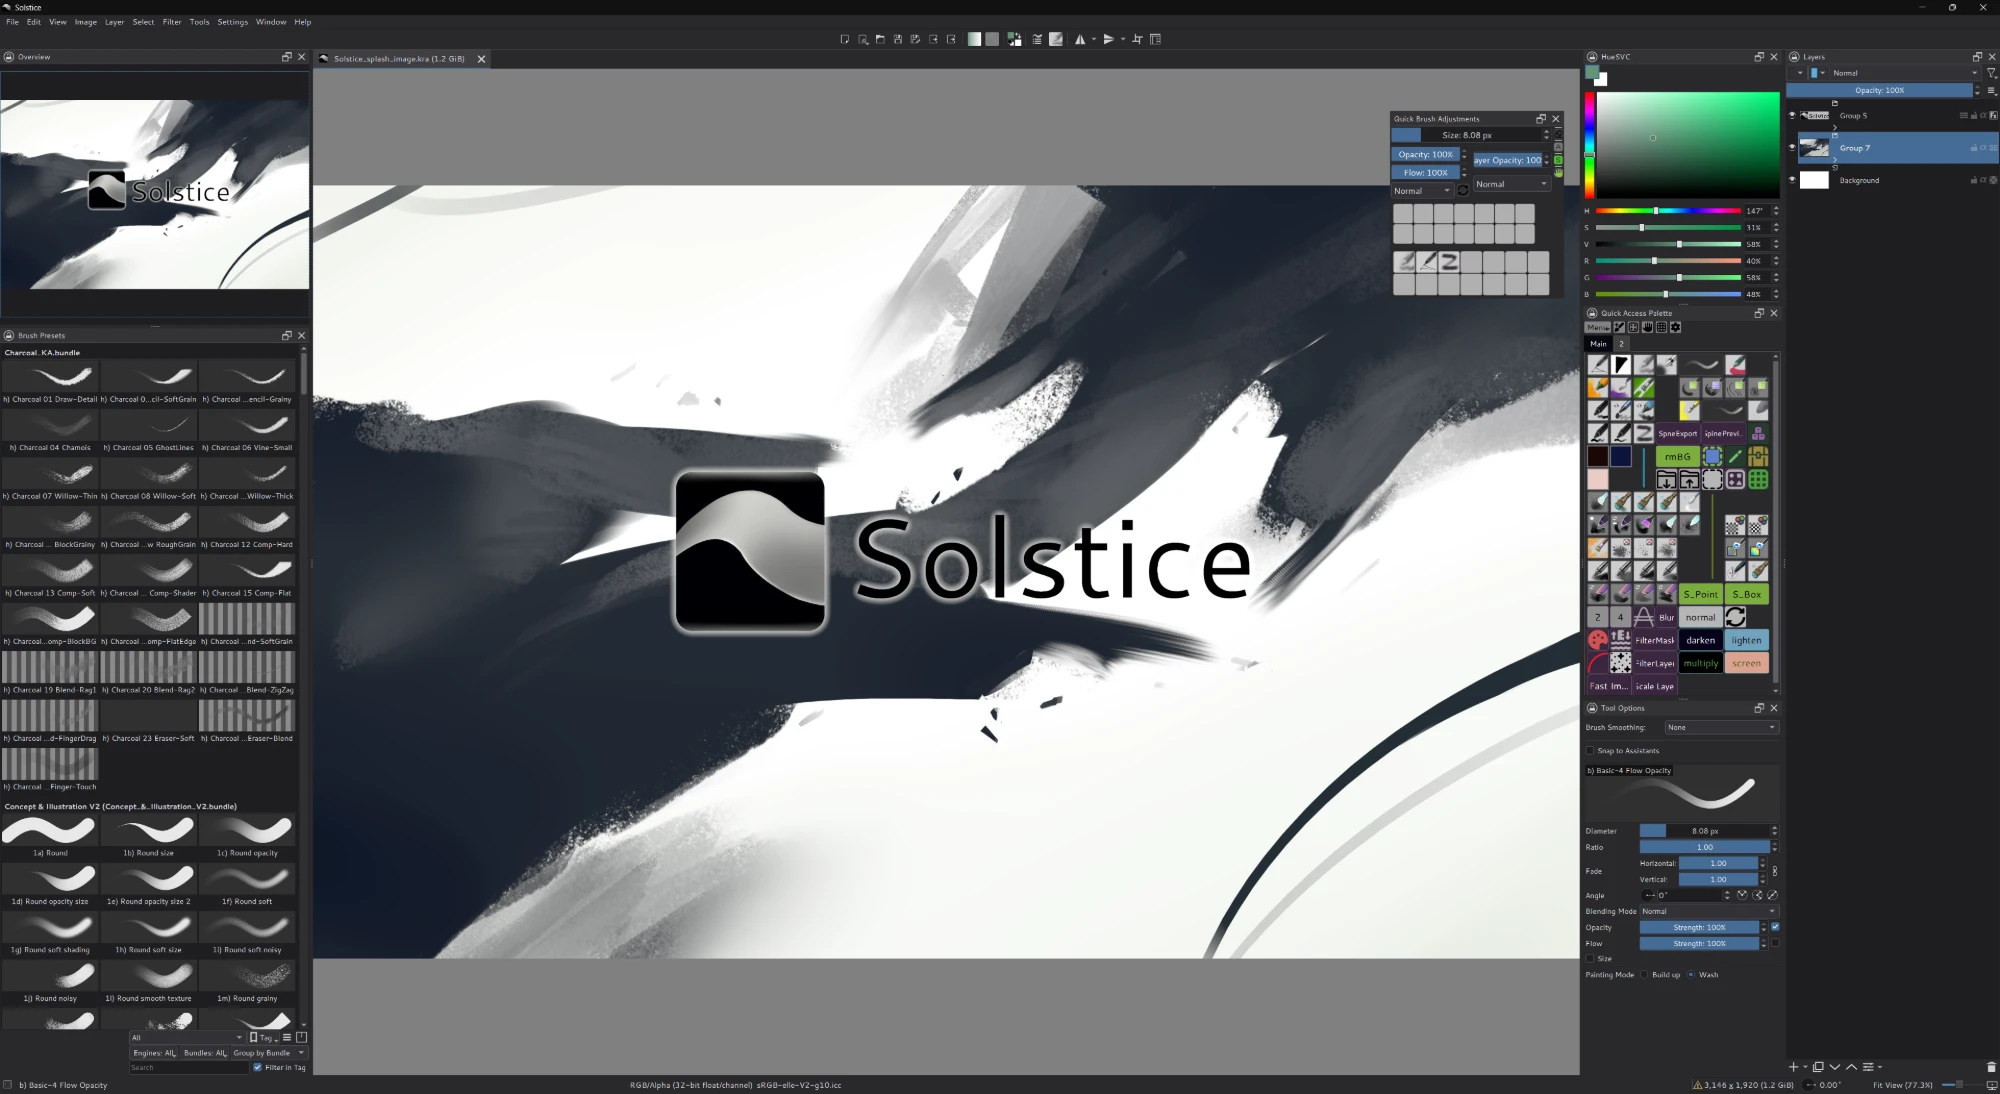
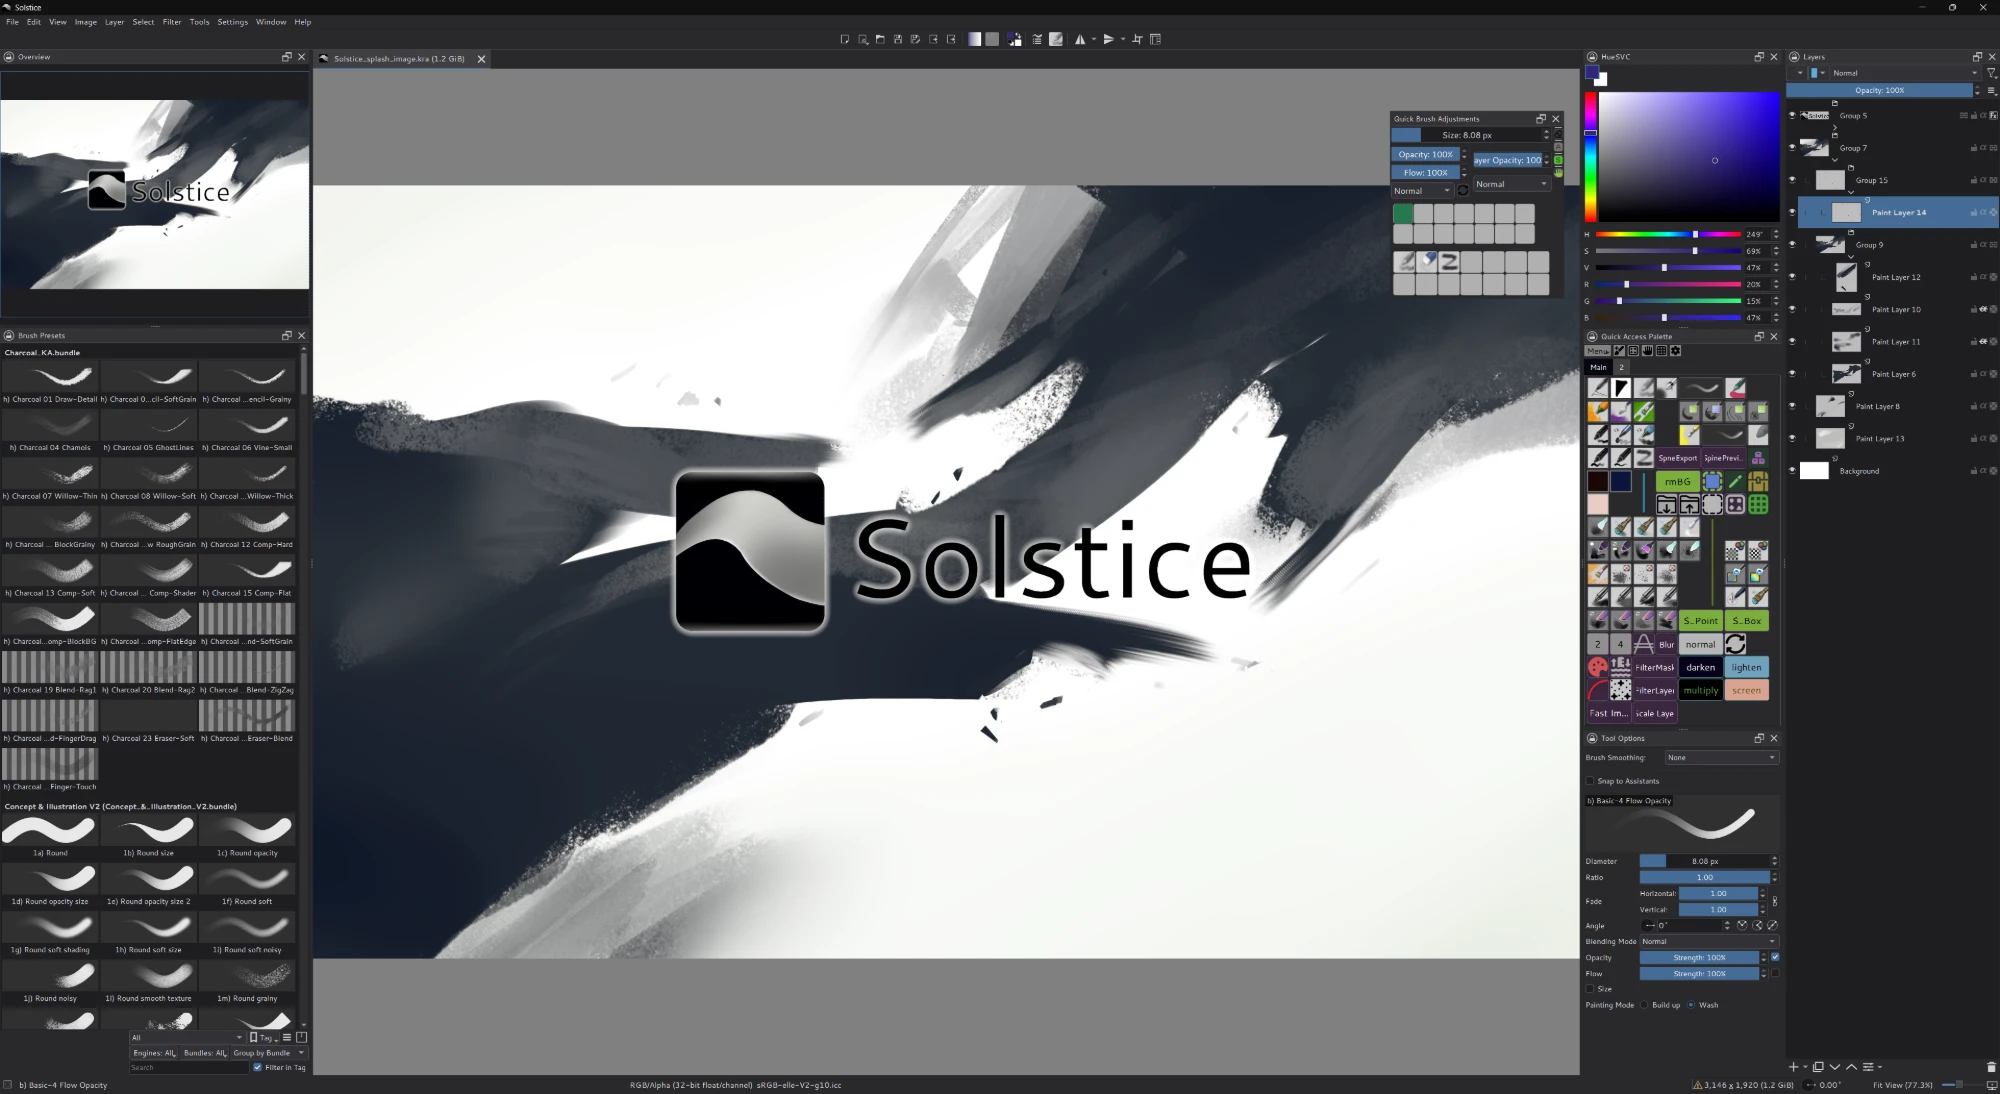
New splash artwork and README main window screenshot

diff --git a/docs/agent/wiki/log.md b/docs/agent/wiki/log.md
@@ -582,3 +582,13 @@ Format: `## YYYY-MM-DD <kind>: <subject>`, then what changed and the sources.
   make the GPU minimum update period counterproductive when dabs arrive
   slowly from CPU generation; masked strokes keep the adaptive period.
 - User manual check OK on 2026-10-10.
+
+## 2026-10-10 ingest: new splash artwork and README screenshot
+
+- The user replaced the splash master (`krita/pics/branding/source/
+  solstice-splash.png`, a linear-profile export of a float document). The
+  app splash `krita/data/splash/solstice-splash.png` was regenerated the same
+  way as before: converted to sRGB, composited over white, 8-bit RGB PNG at
+  full size (3146x1920); it is compiled into `krita.dll` through `splash.qrc`.
+- The README main image `docs/images/solstice-main-window.webp` is the user's
+  new screenshot, used as supplied.
